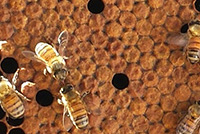
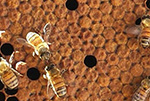
resize thumbnails

diff --git a/index.html b/index.html
@@ -170,7 +170,9 @@
             </a>
           </div>
         </div>
+
         <br>
+
         <div class="row">
           <div class="col-lg-8 col-lg-offset-2 text-center">
             <a href="img/chicken1.jpg" title="Banana" data-gallery>
@@ -192,7 +194,7 @@
     </div>
   </section>
 
-    <section class="bg-contact">
+    <section class="bg-contact" id="contact">
       <div class="container-fluid">
         <div class="row">
           <div class="col-xs-offset-2 col-xs-8">
